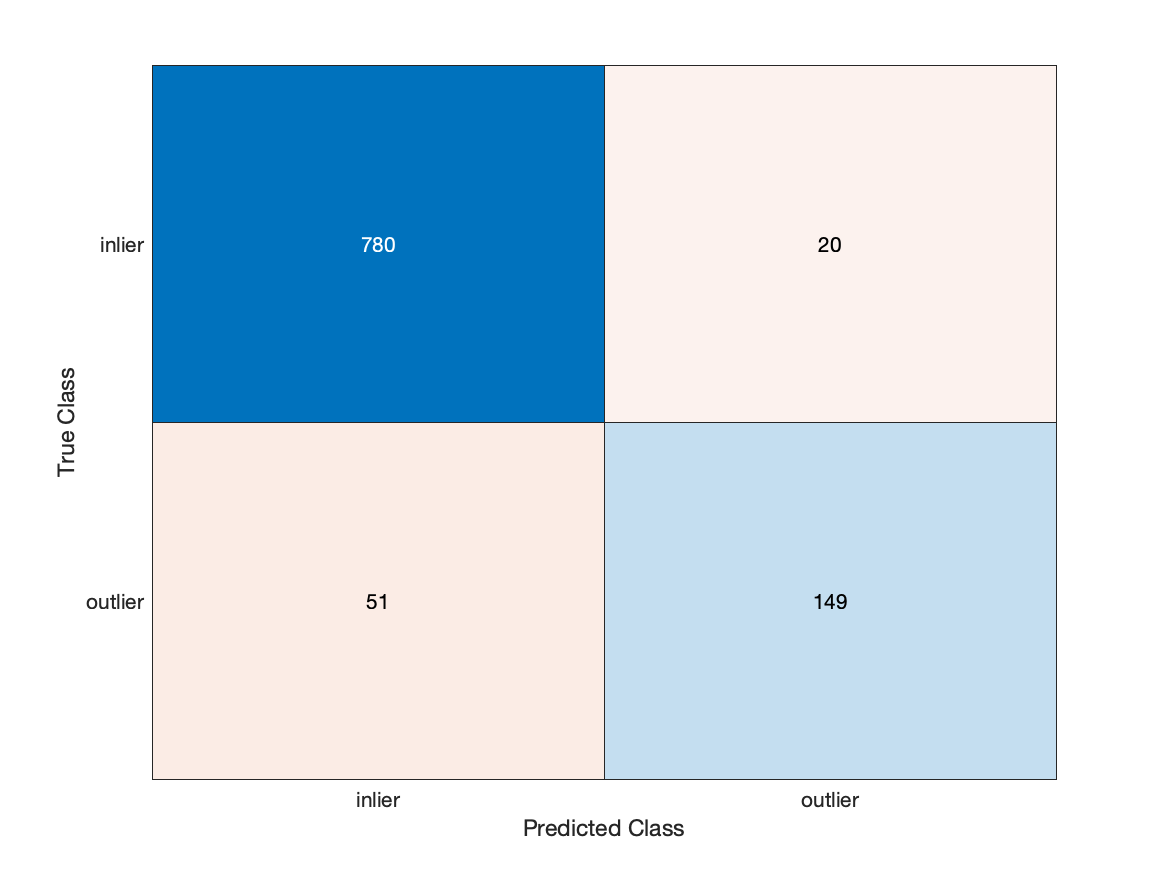
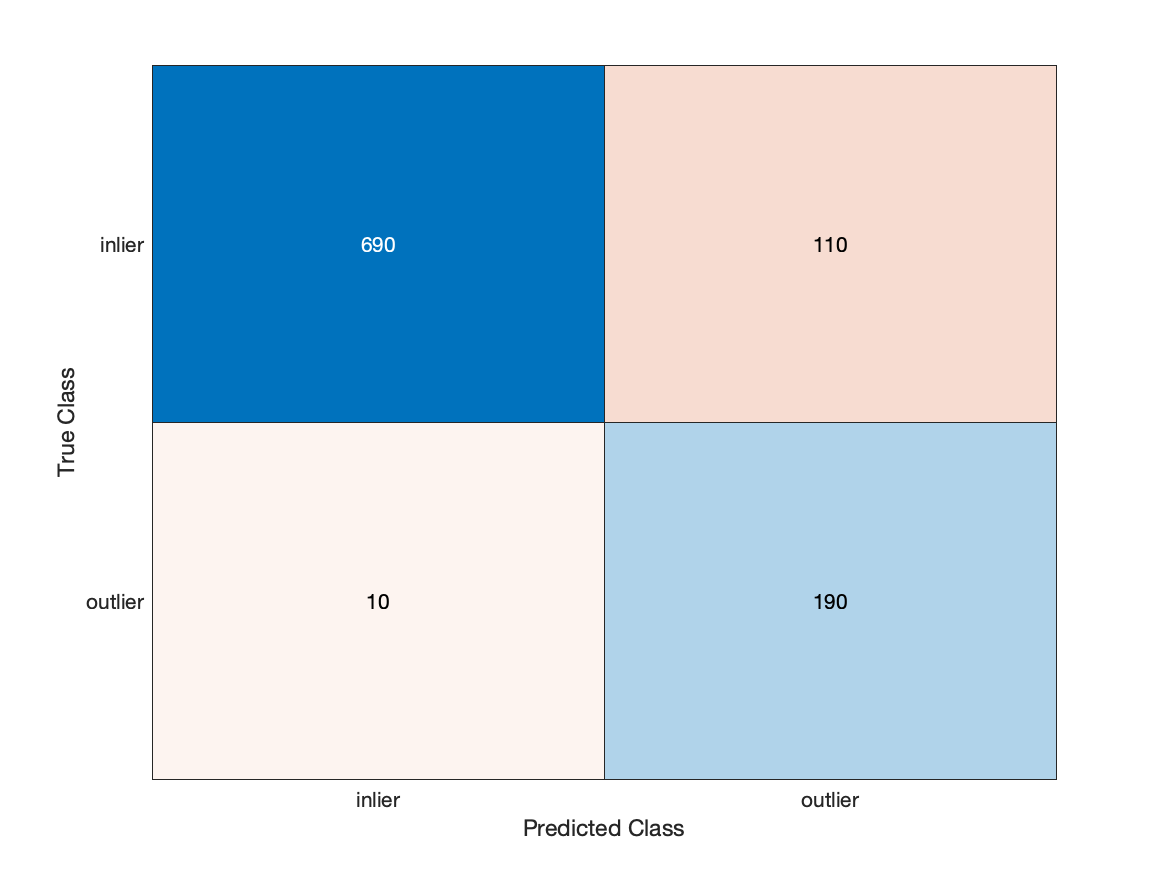
use cosine dist to estimate sigma

diff --git a/kernels/AutoSphereRbfKernel.m b/kernels/AutoSphereRbfKernel.m
@@ -11,7 +11,7 @@ classdef AutoSphereRbfKernel < handle
                 x double
             end
             
-            distances = pdist(x).^2;
+            distances = pdist(x, "cosine").^2;
             this.sigma = sqrt(median(distances));
             disp(['AutoSphereRbfKernel: Sigma = ' mat2str(this.sigma)]);
         end

diff --git a/thesis/shakespear_trump.m b/thesis/shakespear_trump.m
@@ -9,8 +9,8 @@ rng(1634256, "twister");
 
 projectDir = fileparts(fileparts(which(mfilename)));
 
-% modelName = 'all-mpnet-base-v2';
-modelName = 'bge-large-en-v1.5';
+modelName = 'all-mpnet-base-v2';
+% modelName = 'bge-large-en-v1.5';
 % modelName = 'all-MiniLM-L6-v2';
 datasetName = 'shakespear_trump';
 
